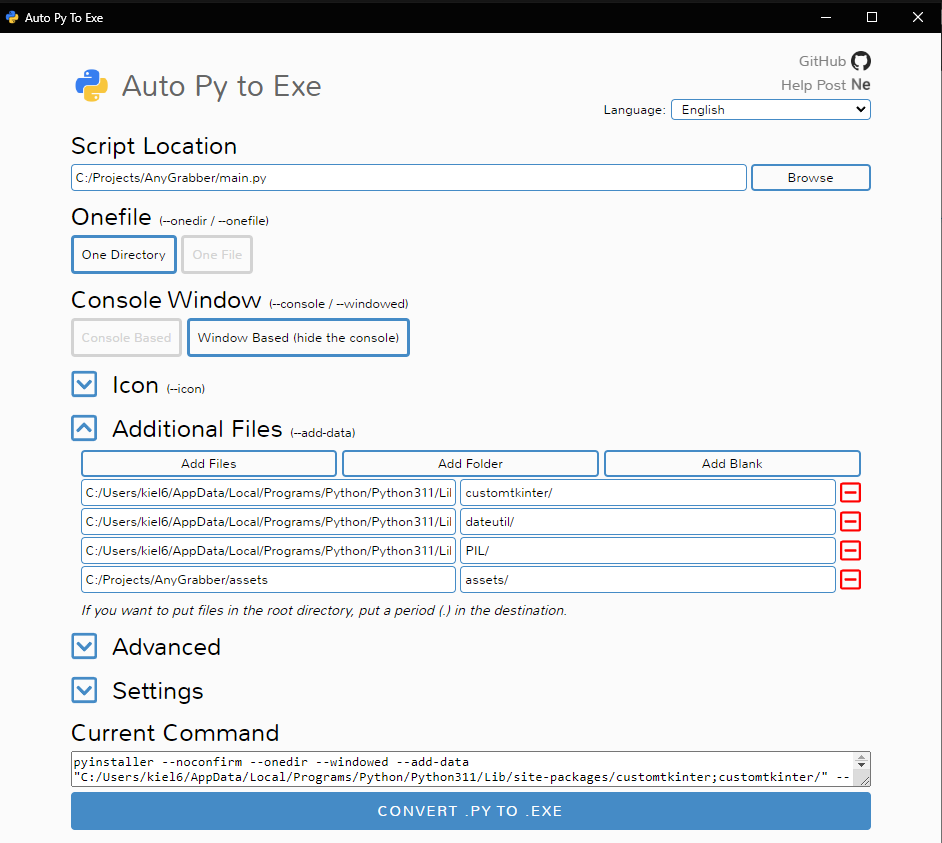
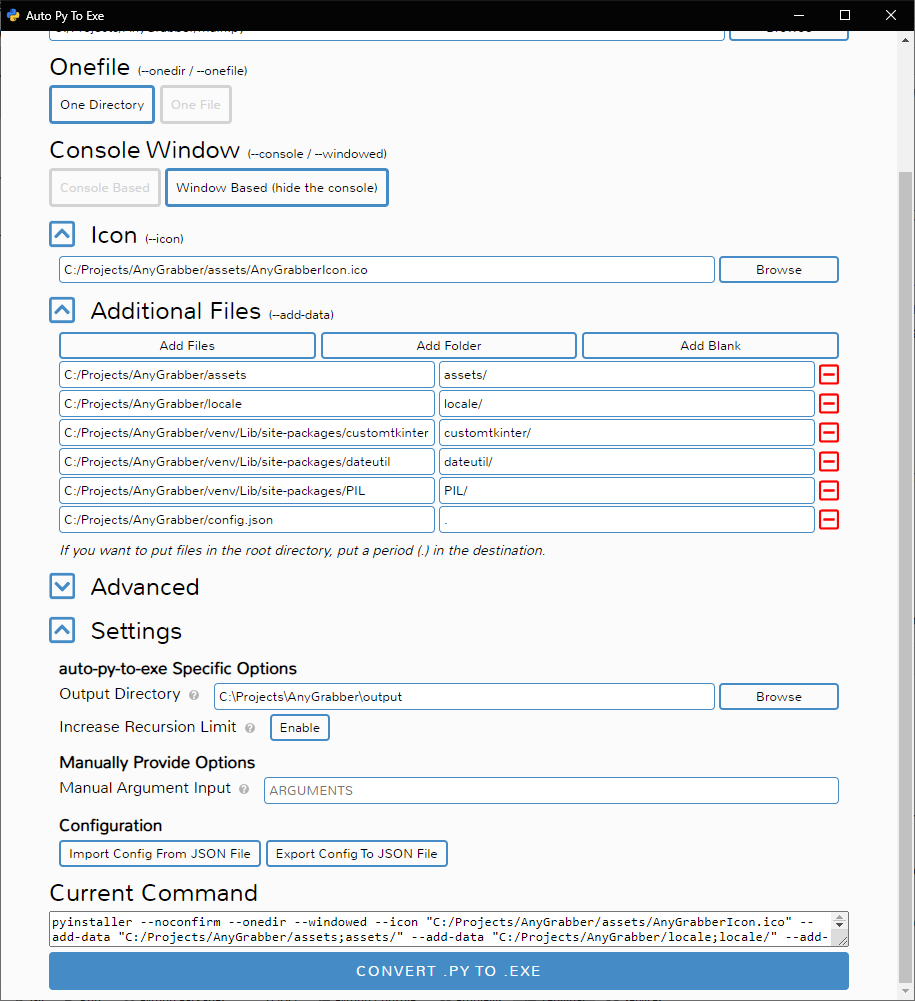
Update README.md

diff --git a/README.md b/README.md
@@ -2,10 +2,12 @@
 
 [![Tests](https://github.com/Kielx/AnyGrabber/actions/workflows/tests.yml/badge.svg)](https://github.com/Kielx/AnyGrabber/actions/workflows/tests.yml)
 
-AnyGrabber simplifies the process of searching for AnyDesk logs, extracting relevant data concerning IP addresses used for logging
+AnyGrabber simplifies the process of searching for AnyDesk logs, extracting relevant data concerning IP addresses used
+for logging
 in, along with corresponding dates. It also generates .txt and
-.csv reports based on the data retrieved. The user-friendly interface and localization features make it easy for anyone to use, regardless of technical proficiency. It's portable and can be used on any Windows machine without the need for installation.
-
+.csv reports based on the data retrieved. The user-friendly interface and localization features make it easy for anyone
+to use, regardless of technical proficiency. It's portable and can be used on any Windows machine without the need for
+installation.
 
 ![App screenshot](./assets/README/screenshot1.png)
 
@@ -21,9 +23,14 @@ in, along with corresponding dates. It also generates .txt and
 
 ## Motivation
 
-Extracting information from AnyDesk logs can be difficult and time-consuming, especially for people who aren't familiar with where the logs are stored. It usually involves a lot of searching through irrelevant details to find important information, such as dates and IP addresses. This can be so complicated that some people give up or spend a long time trying to find what they need.
+Extracting information from AnyDesk logs can be difficult and time-consuming, especially for people who aren't familiar
+with where the logs are stored. It usually involves a lot of searching through irrelevant details to find important
+information, such as dates and IP addresses. This can be so complicated that some people give up or spend a long time
+trying to find what they need.
 
-AnyGrabber is designed to make searching and finding AnyDesk logs easier for everyone. The app has an easy-to-use interface that simplifies the process, making it accessible to both beginners and advanced users. It also offers localization features, so people can use it in their native language.
+AnyGrabber is designed to make searching and finding AnyDesk logs easier for everyone. The app has an easy-to-use
+interface that simplifies the process, making it accessible to both beginners and advanced users. It also offers
+localization features, so people can use it in their native language.
 
 ## Tech used
 
@@ -34,32 +41,35 @@ AnyGrabber is designed to make searching and finding AnyDesk logs easier for eve
 
 ## Building
 
-Easiest way to build portable version of app is to use [auto-py-to-exe](https://pypi.org/project/auto-py-to-exe/) and
-add folders containing customtkinter,
-dateutil
-and PIL. You also need to add assets folder that includes images used in app.
+Easiest way to build portable version of app is to use [auto-py-to-exe](https://pypi.org/project/auto-py-to-exe/)  and
+following the steps:
+
+1. Run `auto-py-to-exe` from your command line
+1. Choose `main.py` as script location
+2. Change Console Window option to Window Based (hide the console)
+3. Pick the icon that is located in `assets` folder
+4. Pick and add additional files and directories from project root:
+    - Assets folder
+    - Locale folder
+    - Customtkinter folder (`/venv/Lib/site-packages/customtkinter`)
+    - Dateutil folder (`/venv/Lib/site-packages/dateutil`)
+    - PIL folder (`/venv/Lib/site-packages/PIL`)
+    - `config.json` file
+
+Use the screenshot below for reference:
 
 ![py-to-exe](./assets/README/Auto-py-to-exe.png)
 
 If you prefer to use pyinstaller command you need to swap locations of file to match your system.
 
-**IMPORTANT**- If you are using PyCharm be sure to install dependencies globally via PIP, because local venv versions
-cause bugs and don't work properly
+**IMPORTANT**- If you are using PyCharm be sure to un-check the following options
 
-```python
-pyinstaller - -noconfirm - -onedir - -windowed - -add - data
-"C:/Users/kiel6/AppData/Local/Programs/Python/Python311/Lib/site-packages/customtkinter;customtkinter/" - -add - data
-"C:/Users/kiel6/AppData/Local/Programs/Python/Python311/Lib/site-packages/dateutil;dateutil/" - -add - data
-"C:/Users/kiel6/AppData/Local/Programs/Python/Python311/Lib/site-packages/PIL;PIL/" - -add - data
-"C:/Projects/AnyGrabber/assets;assets/"  "C:/Projects/AnyGrabber/main.py"
-```
+![py-to-exe](./assets/README/Auto-py-to-exe2.png)
+[Big thanks to this stackoverflow post](https://stackoverflow.com/questions/36618749/module-imports-work-in-pycharm-dont-work-in-python-idle/36618847#36618847):
 
 **--- OR ---**
 
-Un check those
-options [Big thanks to this stackoverflow post](https://stackoverflow.com/questions/36618749/module-imports-work-in-pycharm-dont-work-in-python-idle/36618847#36618847):
-
-![py-to-exe](./assets/README/Auto-py-to-exe2.png)
+install dependencies globally via PIP
 
 ## Acknowledgments
 
